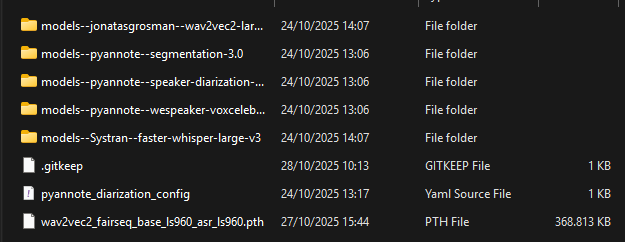
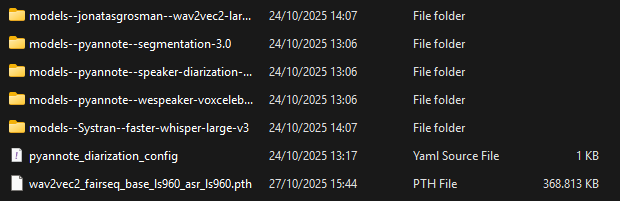
fixed some typos and gitignore thingies

diff --git a/README.md b/README.md
@@ -126,9 +126,9 @@ whisperx path/to/audio.wav --model large-v2 --diarize --diarize_offline --diariz
 
 #### Offline Alignment
 
-In order to have a fully offline system possible, the alignment model has to be pulled in from Hugging Face once. All models required have to be in the local ``models` directory now.
+In order to have a fully offline system possible, the alignment model has to be pulled in from Hugging Face once. All models required have to be in the local `models` directory now.
 
-![alt text](/figures/models.png)
+![alt text](./figures/models.png)
 
 After that you can run it via:
 
